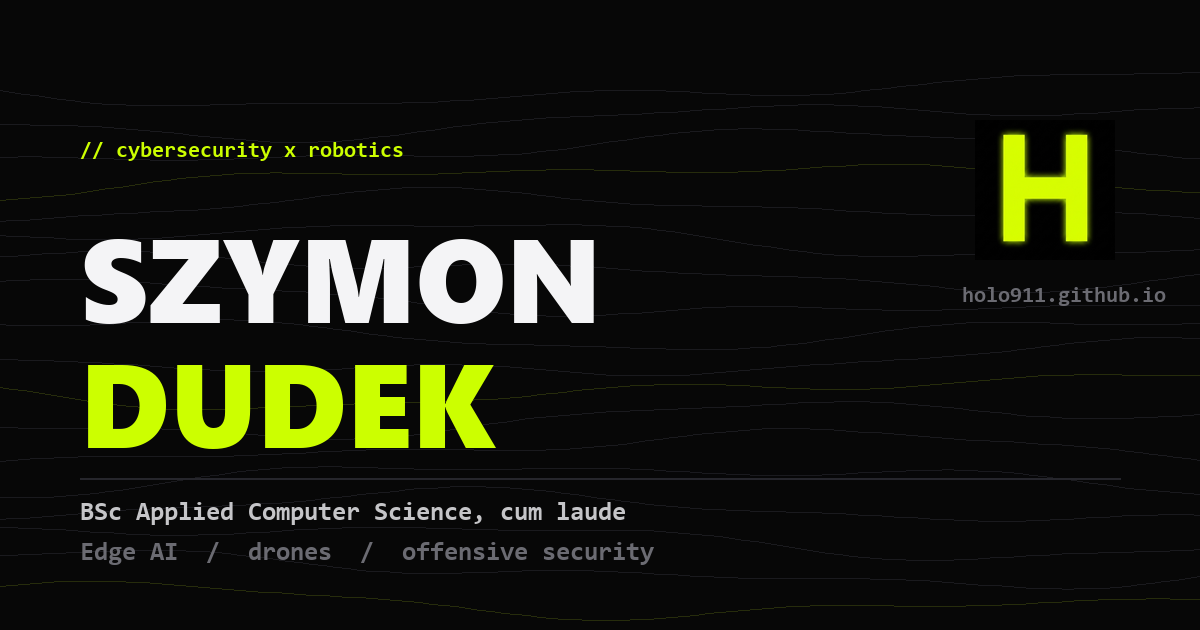
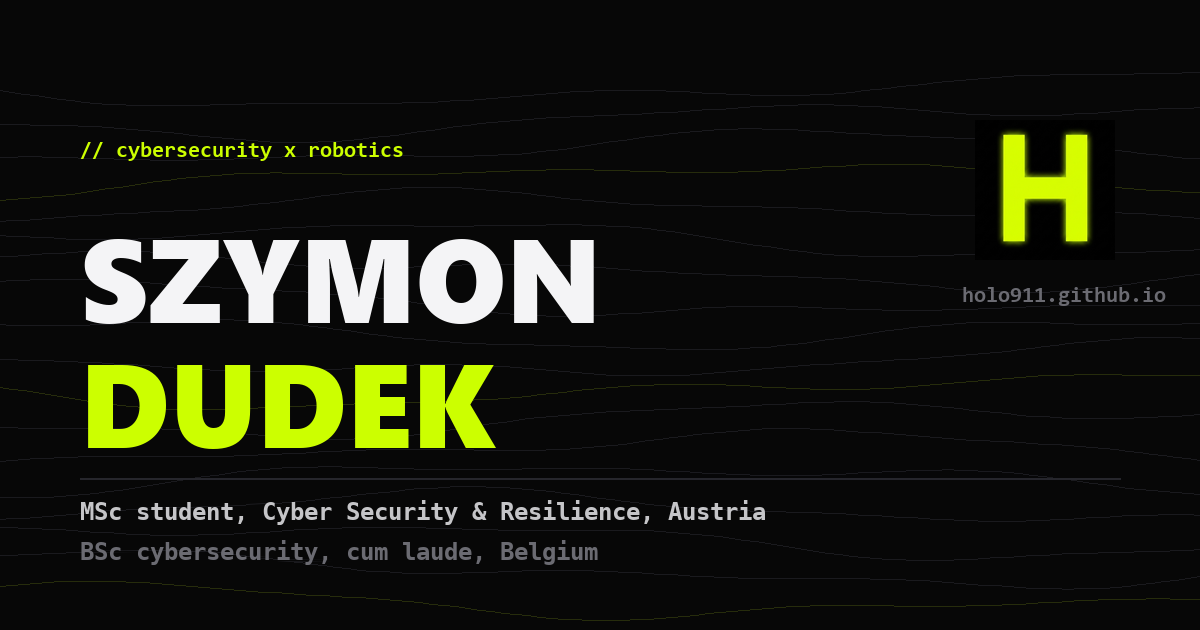
Refresh the social preview image for the MSc

Changed region(s): [[0.0617, 0.7841, 0.6475, 0.9048]]

diff --git a/index.html b/index.html
@@ -15,7 +15,7 @@
     <meta property="og:site_name" content="Szymon Dudek">
     <meta property="og:title" content="Szymon Dudek / Cybersecurity &amp; Robotics">
     <meta property="og:description" content="YOLO object detection on a drone companion computer at 110.3 FPS, 85× the same board's CPU. Selected work in edge AI, autonomous systems, and offensive security.">
-    <meta property="og:image" content="https://holo911.github.io/media/og-card.png">
+    <meta property="og:image" content="https://holo911.github.io/media/og-card.png?v=2">
     <meta property="og:image:width" content="1200">
     <meta property="og:image:height" content="630">
     <meta property="og:image:alt" content="Szymon Dudek, cybersecurity and robotics portfolio">
@@ -24,7 +24,7 @@
     <meta name="twitter:card" content="summary_large_image">
     <meta name="twitter:title" content="Szymon Dudek / Cybersecurity &amp; Robotics">
     <meta name="twitter:description" content="YOLO object detection on a drone companion computer at 110.3 FPS, 85× the same board's CPU.">
-    <meta name="twitter:image" content="https://holo911.github.io/media/og-card.png">
+    <meta name="twitter:image" content="https://holo911.github.io/media/og-card.png?v=2">
 
     <link rel="icon" type="image/png" sizes="96x96" href="media/icon-96.png">
     <link rel="apple-touch-icon" href="media/icon-180.png">
